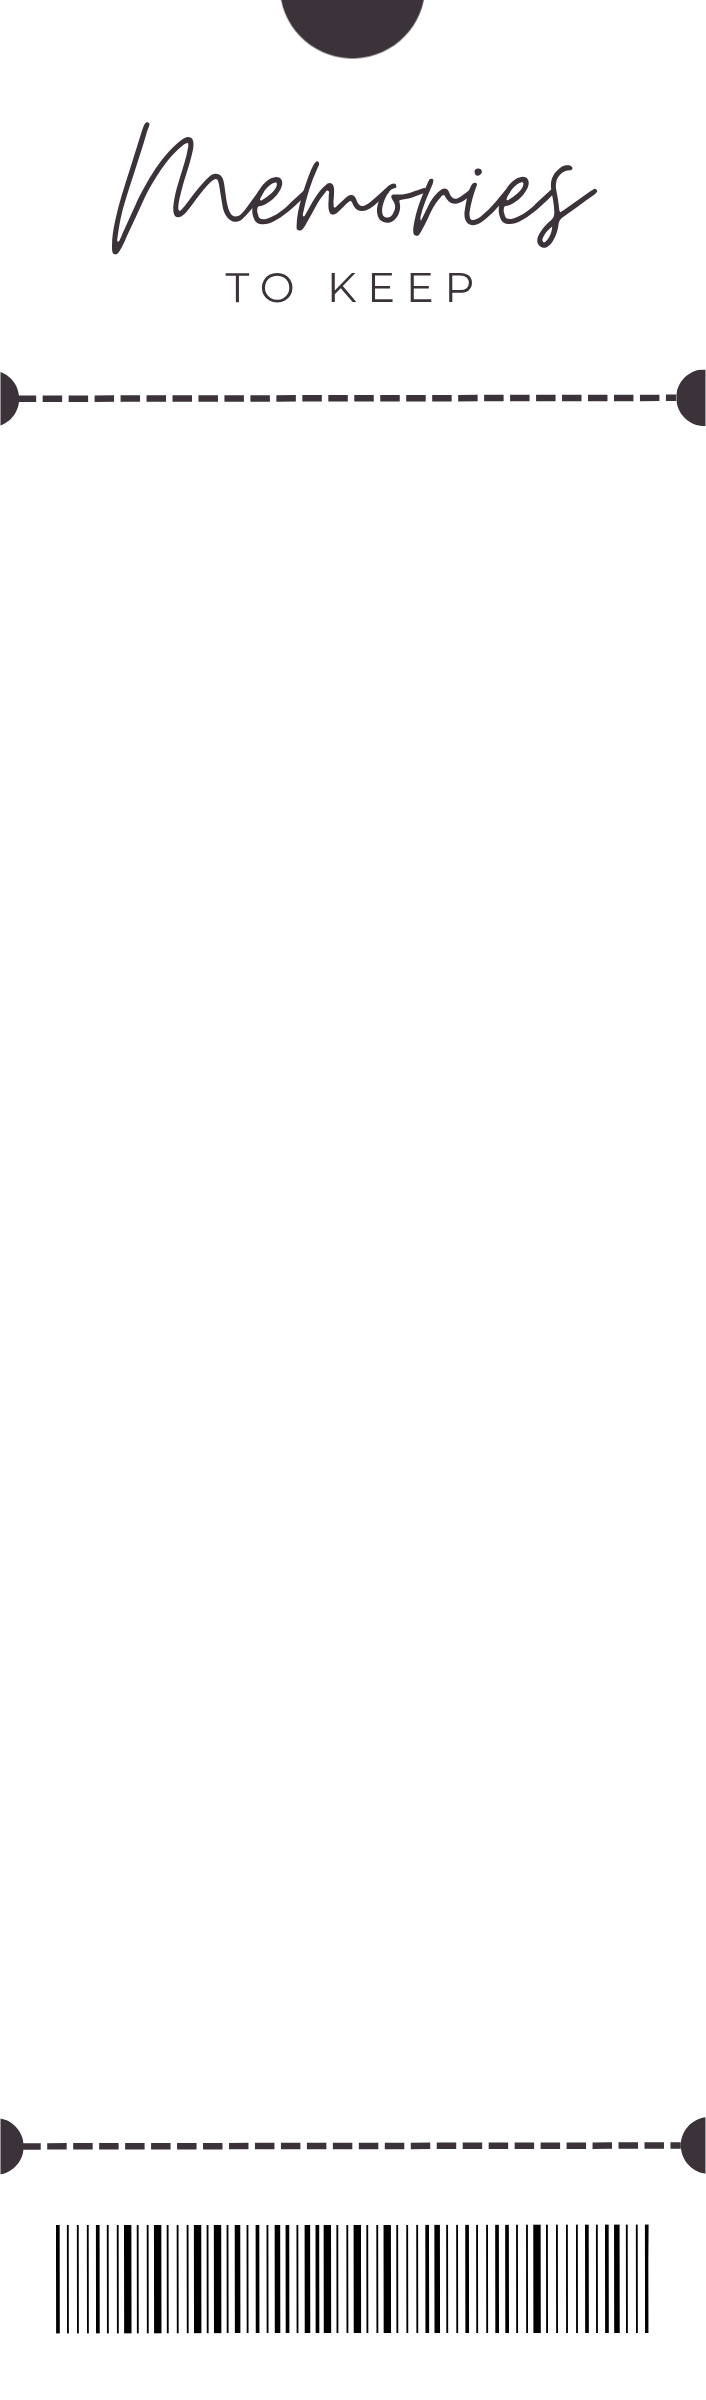
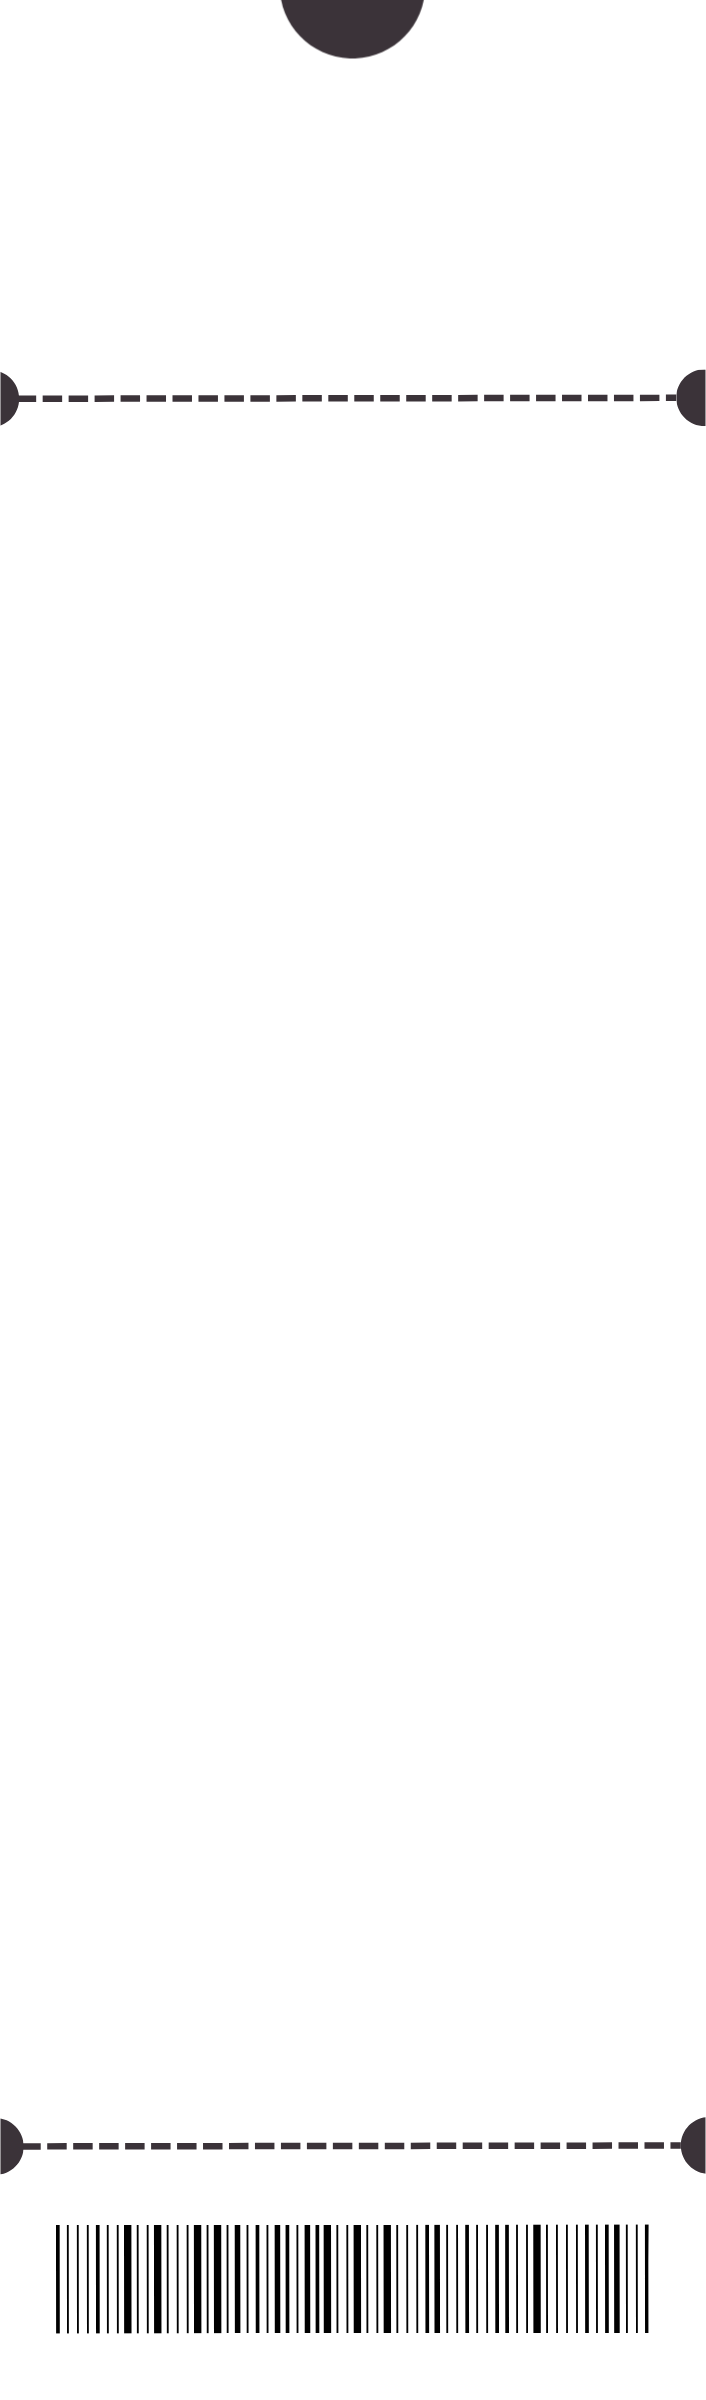
feat: replace Memories to Keep header on White & Black strip with tagline, couple names, and date

Changed region(s): [[0.1558, 0.0312, 0.8102, 0.125]]

diff --git a/src/components/Photobooth/stripThemes.ts b/src/components/Photobooth/stripThemes.ts
@@ -472,7 +472,7 @@ export const PHOTOBOOTH_STRIP_THEMES: PhotoboothStripTheme[] = [
     slotCount: 3,
     width: 700,
     height: 2400,
-    backgroundUrl: '/assets/photobooth/white-black.png?v=2',
+    backgroundUrl: '/assets/photobooth/white-black.png?v=3',
     backgroundFit: 'fill',
     bgColor: '#FAF8F5',
     textColor: '#181310',
@@ -482,7 +482,7 @@ export const PHOTOBOOTH_STRIP_THEMES: PhotoboothStripTheme[] = [
       {
         id: 'slot-1',
         x: 60.67,
-        y: 491.04,
+        y: 550,
         width: 578.67,
         height: 434,
         rotation: 0,
@@ -491,7 +491,7 @@ export const PHOTOBOOTH_STRIP_THEMES: PhotoboothStripTheme[] = [
       {
         id: 'slot-2',
         x: 60.67,
-        y: 983.0,
+        y: 1055,
         width: 578.67,
         height: 434,
         rotation: 0,
@@ -500,7 +500,7 @@ export const PHOTOBOOTH_STRIP_THEMES: PhotoboothStripTheme[] = [
       {
         id: 'slot-3',
         x: 60.67,
-        y: 1478.01,
+        y: 1560,
         width: 578.67,
         height: 434,
         rotation: 0,
@@ -511,12 +511,12 @@ export const PHOTOBOOTH_STRIP_THEMES: PhotoboothStripTheme[] = [
       {
         id: 'event-tagline',
         x: 50,
-        y: 1968,
+        y: 120,
         width: 600,
-        height: 32,
+        height: 35,
         rotation: 0,
         fontFamily: "'Montserrat', sans-serif",
-        fontSize: 18,
+        fontSize: 20,
         fontWeight: 500,
         color: '#6B5E55',
         align: 'center',
@@ -526,12 +526,12 @@ export const PHOTOBOOTH_STRIP_THEMES: PhotoboothStripTheme[] = [
       {
         id: 'couple-name',
         x: 50,
-        y: 2010,
+        y: 172,
         width: 600,
-        height: 55,
+        height: 65,
         rotation: 0,
         fontFamily: "'Cinzel', Georgia, serif",
-        fontSize: 34,
+        fontSize: 38,
         fontWeight: 600,
         color: '#181310',
         align: 'center',
@@ -541,12 +541,12 @@ export const PHOTOBOOTH_STRIP_THEMES: PhotoboothStripTheme[] = [
       {
         id: 'event-date',
         x: 50,
-        y: 2075,
+        y: 255,
         width: 600,
-        height: 35,
+        height: 38,
         rotation: 0,
         fontFamily: "'Montserrat', sans-serif",
-        fontSize: 22,
+        fontSize: 24,
         fontWeight: 500,
         color: '#6B5E55',
         align: 'center',
